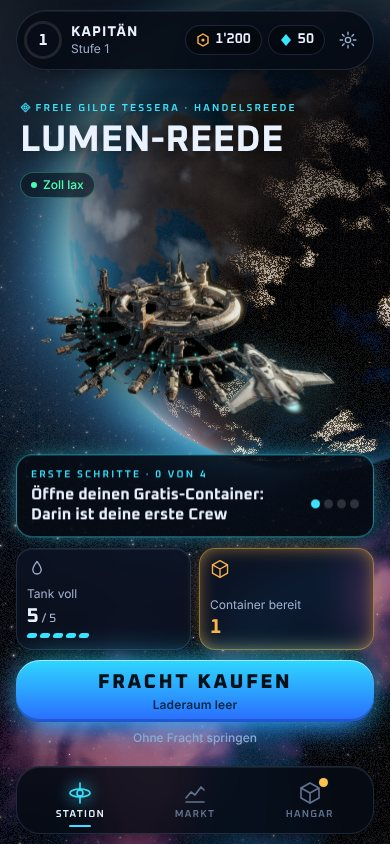
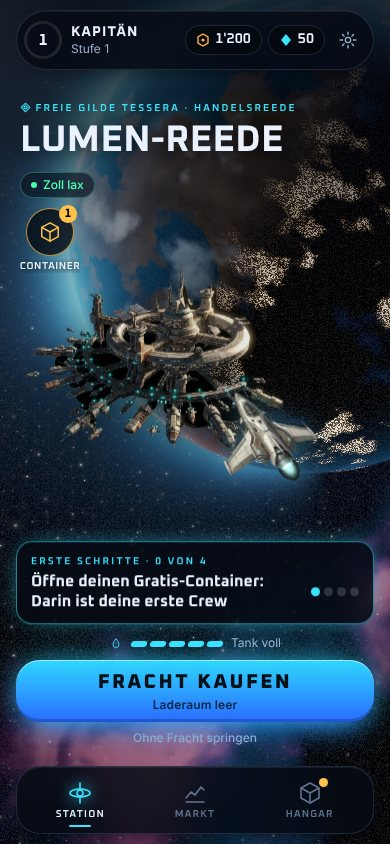
Home screen without tiles, daily goals as three symbols
Station: container bay and trading posts are symbols on the left edge, the
tank is one line above the main button. The middle belongs to the station
and the ship.

Daily goals: streak, wheel and calendar are three symbols at the top. A tap
on the calendar collects today's reward, streak and calendar fold out their
details. The daily bonus sits with its progress above the missions.

Claude-Session: https://claude.ai/code/session_01LRkk68pyJcCphAoNdXRYk3

Changed region(s): [[0.0, 0.1232, 1.0, 0.8009], [0.9538, 0.3389, 1.0, 0.4005], [0.9846, 0.2464, 1.0, 0.2773]]

diff --git a/packages/client/src/ui/Daily.tsx b/packages/client/src/ui/Daily.tsx
@@ -4,10 +4,14 @@ import { useFresh, useSeenNow, useUnlocks } from './unlocks.ts';
 import { useApp } from '../store.ts';
 import { countdown, missionText, num, rewardText } from './format.ts';
 import { useServerNow } from './hooks.ts';
-import { IconFlame, Quanta } from './icons.tsx';
+import { IconDaily, IconFlame, Quanta } from './icons.tsx';
 import { League } from './League.tsx';
 import { Season, WeekendCard } from './Season.tsx';
 import { SpendButton } from './Spend.tsx';
+
+/** A calendar reward in two words, for the symbol. */
+const rewardShort = (r: { credits?: number; shards?: number; quanta?: number; freeze?: number; crate?: unknown }): string =>
+  r.credits ? `${num(r.credits)} Credits` : r.shards ? `${r.shards} Splitter` : r.quanta ? `${r.quanta} Quanten` : r.freeze ? 'Urlaubsschein' : 'Container';
 
 const STREAK_TEXT = {
   none: 'Spring heute einmal, um eine Serie zu starten.',
@@ -29,6 +33,10 @@ function Today() {
   // Steps already collected in the current seven-day round.
   const doneCount = calendar.claimable ? calendar.step % calendar.rewards.length : ((calendar.step - 1) % calendar.rewards.length) + 1;
   const tap = (fn: () => void) => (): void => { audio.tap(); fn(); };
+  const [detail, setDetail] = useState<'streak' | 'calendar' | null>(null);
+  const today = calendar.rewards[doneCount % calendar.rewards.length];
+  const urgent = streak.status === 'atRisk' && streak.endsAt - now < 3 * 3_600_000;
+  const streakTone = urgent ? 'urgent' : streak.status;
 
   return (
     <>
@@ -41,42 +49,58 @@ function Today() {
         </button>
       )}
 
-      <div className={`streak streak--${streak.status}${streak.status === 'atRisk' && streak.endsAt - now < 3 * 3_600_000 ? ' is-urgent' : ''}`}>
-        <div className="streak__flame"><IconFlame /><b>{streak.count}</b></div>
-        <div className="streak__main">
-          <b>Handelsserie{streak.count > 0 ? ` · +${Math.round(streak.bonus * 100)} % Verkaufspreis` : ''}</b>
-          <span>{STREAK_TEXT[streak.status]}</span>
-          {streak.status === 'atRisk' && <span className="streak__clock">Noch {countdown(streak.endsAt - now)}</span>}
-        </div>
-        <SpendButton className="streak__freeze" disabled={busy || streak.freezes >= streak.maxFreezes || view.wallet.quanta < streak.freezePrice} onSpend={() => void send({ type: 'BuyFreeze' })} confirm={<><span>Kaufen?</span><small><Quanta />{streak.freezePrice}</small></>}>
-          <b>{streak.freezes}<small> / {streak.maxFreezes}</small></b>
-          <span>Urlaubsschein</span>
-          <small><Quanta />{streak.freezePrice}</small>
-        </SpendButton>
-      </div>
-
-      <button className={`wheelcard${daily.wheel.available ? ' wheelcard--ready' : ''}`} onClick={tap(() => setSheet('wheel'))}>
-        <span className="wheelcard__icon" />
-        <span className="wheelcard__main">
+      {/* Three things that come back every day, as symbols. Details open on a tap. */}
+      <div className="trio">
+        <button className={`trio__btn trio__btn--streak trio__btn--${streakTone}${detail === 'streak' ? ' is-open' : ''}`} onClick={tap(() => setDetail(detail === 'streak' ? null : 'streak'))}>
+          <span className="trio__icon"><IconFlame /><b>{streak.count}</b></span>
+          <b>Serie</b>
+          <small>{streak.status === 'atRisk' ? countdown(streak.endsAt - now) : streak.status === 'safe' ? `+${Math.round(streak.bonus * 100)} %` : streak.status === 'frozen' ? 'Schein hält' : streak.status === 'broken' ? 'gerissen' : 'starten'}</small>
+        </button>
+        <button className={`trio__btn trio__btn--wheel${daily.wheel.available ? ' trio__btn--ready' : ''}`} onClick={tap(() => setSheet('wheel'))}>
+          <span className="trio__icon"><i className="wheelcard__icon" /></span>
           <b>Glücksrad</b>
-          <small>{daily.wheel.available ? 'Dein Gratis-Dreh für heute wartet' : 'Heute gedreht. Morgen gibt es den nächsten'}</small>
-        </span>
-        <span className="mission__btn" aria-hidden="true">{daily.wheel.available ? 'Drehen' : 'Quoten'}</span>
-      </button>
-
-      <h4 className="market__section">Login-Kalender<span>{calendar.claimable ? 'Heute abholbar' : 'Morgen wieder'}</span></h4>
-      <div className="calendar" ref={(el) => { el?.querySelector('.cal--today, .cal--next')?.scrollIntoView({ inline: 'center', block: 'nearest' }); }}>
-        {calendar.rewards.map((r, i) => {
-          const state = i < doneCount ? 'done' : i === doneCount ? (calendar.claimable ? 'today' : 'next') : 'future';
-          return (
-            <button key={i} className={`cal cal--${state}${r.crate ? ' cal--big' : ''}`} disabled={busy || state !== 'today'} onClick={tap(() => void send({ type: 'ClaimCalendar' }))}>
-              <small>Tag {i + 1}</small>
-              <b>{r.credits ? num(r.credits) : r.shards ?? r.quanta ?? (r.freeze ? '1' : '★')}</b>
-              <span>{r.credits ? 'Credits' : r.shards ? 'Splitter' : r.quanta ? 'Quanten' : r.freeze ? 'Schein' : 'Premium'}</span>
-            </button>
-          );
-        })}
+          <small>{daily.wheel.available ? 'Gratis-Dreh' : 'morgen'}</small>
+        </button>
+        <button
+          className={`trio__btn trio__btn--calendar${calendar.claimable ? ' trio__btn--ready' : ''}${detail === 'calendar' ? ' is-open' : ''}`}
+          disabled={busy}
+          onClick={tap(() => { if (calendar.claimable) void send({ type: 'ClaimCalendar' }); else setDetail(detail === 'calendar' ? null : 'calendar'); })}
+        >
+          <span className="trio__icon"><IconDaily /></span>
+          <b>Tag {(doneCount % calendar.rewards.length) + 1}</b>
+          <small>{calendar.claimable && today ? rewardShort(today) : 'morgen'}</small>
+        </button>
       </div>
+
+      {detail === 'streak' && (
+        <div className={`streak streak--${streak.status}${streak.status === 'atRisk' && streak.endsAt - now < 3 * 3_600_000 ? ' is-urgent' : ''}`}>
+          <div className="streak__flame"><IconFlame /><b>{streak.count}</b></div>
+          <div className="streak__main">
+            <b>Handelsserie{streak.count > 0 ? ` · +${Math.round(streak.bonus * 100)} % Verkaufspreis` : ''}</b>
+            <span>{STREAK_TEXT[streak.status]}</span>
+            {streak.status === 'atRisk' && <span className="streak__clock">Noch {countdown(streak.endsAt - now)}</span>}
+          </div>
+          <SpendButton className="streak__freeze" disabled={busy || streak.freezes >= streak.maxFreezes || view.wallet.quanta < streak.freezePrice} onSpend={() => void send({ type: 'BuyFreeze' })} confirm={<><span>Kaufen?</span><small><Quanta />{streak.freezePrice}</small></>}>
+            <b>{streak.freezes}<small> / {streak.maxFreezes}</small></b>
+            <span>Urlaubsschein</span>
+            <small><Quanta />{streak.freezePrice}</small>
+          </SpendButton>
+        </div>
+      )}
+      {detail === 'calendar' && (
+        <div className="calendar" ref={(el) => { el?.querySelector('.cal--today, .cal--next')?.scrollIntoView({ inline: 'center', block: 'nearest' }); }}>
+          {calendar.rewards.map((r, i) => {
+            const state = i < doneCount ? 'done' : i === doneCount ? (calendar.claimable ? 'today' : 'next') : 'future';
+            return (
+              <button key={i} className={`cal cal--${state}${r.crate ? ' cal--big' : ''}`} disabled={busy || state !== 'today'} onClick={tap(() => void send({ type: 'ClaimCalendar' }))}>
+                <small>Tag {i + 1}</small>
+                <b>{r.credits ? num(r.credits) : r.shards ?? r.quanta ?? (r.freeze ? '1' : '★')}</b>
+                <span>{r.credits ? 'Credits' : r.shards ? 'Splitter' : r.quanta ? 'Quanten' : r.freeze ? 'Schein' : 'Premium'}</span>
+              </button>
+            );
+          })}
+        </div>
+      )}
 
       <h4 className="market__section">
         Tagesaufträge
@@ -84,6 +108,17 @@ function Today() {
           ? <button className="link link--gold" disabled={busy} onClick={tap(() => { void (async () => { for (const index of claimable) await send({ type: 'ClaimMission', index }); })(); })}>Alle {claimable.length} abholen</button>
           : <span>{daily.chest.done} von {daily.chest.total} erledigt</span>}
       </h4>
+      <button
+        className={`chest${daily.chest.done === daily.chest.total && !daily.chest.claimed ? ' chest--ready' : ''}${daily.chest.claimed ? ' is-claimed' : ''}`}
+        disabled={busy || daily.chest.claimed || daily.chest.done < daily.chest.total}
+        onClick={tap(() => void send({ type: 'ClaimChest' }))}
+      >
+        <span className="chest__pips">{Array.from({ length: daily.chest.total }, (_, i) => <i key={i} className={i < daily.chest.done ? 'on' : ''} />)}</span>
+        <span className="chest__text">
+          <b>{daily.chest.claimed ? 'Tagesbonus erhalten' : daily.chest.done === daily.chest.total ? 'Tagesbonus abholen' : 'Tagesbonus für alle drei'}</b>
+          <small>{rewardText(daily.chest.reward)}</small>
+        </span>
+      </button>
       <div className="missions">
         {daily.missions.map((m, i) => {
           const done = m.progress >= m.target;
@@ -100,15 +135,6 @@ function Today() {
             </div>
           );
         })}
-        <button
-          className={`chest${daily.chest.done === daily.chest.total && !daily.chest.claimed ? ' chest--ready' : ''}`}
-          disabled={busy || daily.chest.claimed || daily.chest.done < daily.chest.total}
-          onClick={tap(() => void send({ type: 'ClaimChest' }))}
-        >
-          <span className="chest__pips">{Array.from({ length: daily.chest.total }, (_, i) => <i key={i} className={i < daily.chest.done ? 'on' : ''} />)}</span>
-          <b>{daily.chest.claimed ? 'Tagesbonus erhalten' : 'Tagesbonus für alle drei'}</b>
-          <small>{rewardText(daily.chest.reward)}</small>
-        </button>
       </div>
     </>
   );

diff --git a/packages/client/src/ui/Hub.tsx b/packages/client/src/ui/Hub.tsx
@@ -30,7 +30,6 @@ export function Hub() {
   const way = course && course !== view.location ? courseTo(view.location, course) : [];
   const now = useServerNow();
   const station = STATION_BY_ID.get(view.location)!;
-  const go = (tab: 'hangar') => (): void => { audio.tap(); setTab(tab); };
 
   // What needs attention sits at the edge as a symbol with a mark. The details come after a tap.
   const { orders } = view;
@@ -63,6 +62,27 @@ export function Hub() {
     });
   }
   if (view.salvage && unlocks.salvage) rail.push({ key: 'salvage', tone: 'salvage', icon: <IconHangar />, label: 'Bergung', mark: '', say: `Bergungs-Auktion am Dock für ${num(view.salvage.price)} Credits`, go: () => setSheet('salvage') });
+  const own: typeof rail = [{
+    key: 'crates',
+    tone: view.badges.hangar > 0 ? 'ready' : 'idle',
+    icon: <IconHangar />,
+    label: view.badges.hangar > 0 ? 'Container' : view.crates.free.nextAt ? countdown(view.crates.free.nextAt - now) : 'Container',
+    mark: view.badges.hangar > 0 ? String(view.badges.hangar) : '',
+    say: view.badges.hangar > 0 ? `${view.badges.hangar} Container bereit` : 'Zum Hangar',
+    go: () => { setHangarMode('crates'); setTab('hangar'); },
+  }];
+  if (unlocks.posts) {
+    const full = view.badges.station > 0;
+    own.push({
+      key: 'posts',
+      tone: full ? 'ready' : fresh('posts') ? 'new' : 'idle',
+      icon: <IconMarket />,
+      label: view.posts.list.length > 0 ? num(view.posts.stored) : fresh('posts') ? 'Neu' : 'Posten',
+      mark: full ? '!' : '',
+      say: view.posts.list.length > 0 ? `Handelsposten: ${num(view.posts.stored)} Credits im Lager${full ? ', Lager voll' : ''}` : 'Handelsposten bauen',
+      go: () => setSheet('posts'),
+    });
+  }
   // One status at a time next to the customs level: the most pressing wins.
   const streakAtRisk = view.streak.count > 0 && view.streak.status === 'atRisk';
 
@@ -111,6 +131,15 @@ export function Hub() {
         <button className="hub__dock" aria-label={unlocks.yard ? 'Zur Werft' : 'Dein Schiff'} onClick={() => { if (!unlocks.yard) return; audio.tap(); setHangarMode('yard'); setTab('hangar'); }}>
           <ShipArt id={view.fleet.active} paint={paint} view={stationArt ? 'rear' : 'top'} />
         </button>
+        {/* Left: what you own and collect. Right: what the sector asks of you. */}
+        <div className="rail rail--left">
+          {own.map((r) => (
+            <button key={r.key} className={`rail__btn rail__btn--${r.key} rail__btn--${r.tone}`} aria-label={r.say} onClick={() => { audio.tap(); r.go(); }}>
+              <span className="rail__icon">{r.icon}{r.mark && <i>{r.mark}</i>}</span>
+              <small>{r.label}</small>
+            </button>
+          ))}
+        </div>
         {rail.length > 0 && (
           <div className="rail">
             {rail.map((r) => (
@@ -131,27 +160,11 @@ export function Hub() {
         </button>
       )}
 
-      <div className={`tiles${unlocks.posts ? '' : ' tiles--2'}`}>
-        {unlocks.posts && (
-          <button className={`tile${view.badges.station > 0 ? ' tile--ready' : fresh('posts') ? ' tile--new' : ''}`} onClick={() => { audio.tap(); setSheet('posts'); }}>
-            <span className="tile__icon"><IconMarket /></span>
-            <span className="tile__label">{view.posts.list.length > 0 ? (view.badges.station > 0 ? 'Posten voll' : 'Handelsposten') : fresh('posts') ? 'Neu: Posten' : 'Posten bauen'}</span>
-            <span className="tile__value">{view.posts.list.length > 0 ? num(view.posts.stored) : 'Bauen'}</span>
-          </button>
-        )}
-        <div className="tile">
-          <span className="tile__icon"><IconFuel /></span>
-          <span className="tile__label">{view.fuel.nextAt ? `+1 in ${countdown(view.fuel.nextAt - now)}` : 'Tank voll'}</span>
-          <span className="tile__value">{view.fuel.amount}<small> / {view.fuel.max}</small></span>
-          <span className="pips">
-            {Array.from({ length: view.fuel.max }, (_, i) => <i key={i} className={i < view.fuel.amount ? 'on' : ''} />)}
-          </span>
-        </div>
-        <button className={`tile${view.badges.hangar > 0 ? ' tile--ready' : ''}`} onClick={go('hangar')}>
-          <span className="tile__icon"><IconHangar /></span>
-          <span className="tile__label">{view.badges.hangar > 0 ? 'Container bereit' : 'Gratis-Container'}</span>
-          <span className="tile__value">{view.badges.hangar > 0 ? view.badges.hangar : view.crates.free.nextAt ? countdown(view.crates.free.nextAt - now) : '0'}</span>
-        </button>
+      {/* The tank in one line: how far you can go, and when the next unit comes. */}
+      <div className="fuelline" aria-label={`Tank ${view.fuel.amount} von ${view.fuel.max}`}>
+        <IconFuel />
+        <span className="pips">{Array.from({ length: view.fuel.max }, (_, i) => <i key={i} className={i < view.fuel.amount ? 'on' : ''} />)}</span>
+        <small>{view.fuel.nextAt ? `+1 in ${countdown(view.fuel.nextAt - now)}` : 'Tank voll'}</small>
       </div>
 
       {ready ? (

diff --git a/packages/client/src/ui/styles.css b/packages/client/src/ui/styles.css
@@ -2151,3 +2151,41 @@ i.flyglyph { width: 12px; height: 12px; left: -6px; top: -6px; background: var(-
 .trade__lvl { font-family: var(--font-display); font-size: var(--fs-body); font-weight: 700; }
 .trade__lvl.is-cheap { color: var(--ok); }
 .trade__lvl.is-dear { color: var(--amber); }
+
+/* The home screen without tiles: what you own sits on the left edge, the tank is one line above the main button. */
+.rail--left { right: auto; left: 0; }
+.rail__btn--idle { --tone: var(--ink-dim); }
+.rail__btn--idle small { color: var(--ink-dim); }
+.rail__btn--new { --tone: var(--cyan); }
+.fuelline { display: flex; align-items: center; justify-content: center; gap: 8px; margin-bottom: 8px; color: var(--ink-dim); }
+.fuelline svg { width: 14px; height: 14px; color: var(--cyan); }
+.fuelline .pips { margin-top: 0; }
+.fuelline .pips i { width: 16px; height: 6px; }
+.fuelline small { font-size: var(--fs-small); font-variant-numeric: tabular-nums; }
+
+/* Daily goals: streak, wheel and calendar as three symbols. The missions are the list. */
+.trio { flex: none; display: grid; grid-template-columns: repeat(3, 1fr); gap: 8px; margin: 4px 0 2px; }
+.trio__btn { --tone: var(--ink-dim); display: flex; flex-direction: column; align-items: center; gap: 2px; padding: 10px 4px 9px; border-radius: var(--radius-m); background: var(--glass-strong); border: 1px solid var(--stroke); }
+.trio__btn:active { transform: scale(0.96); }
+.trio__btn.is-open { border-color: var(--stroke-strong); }
+.trio__icon { position: relative; display: grid; place-items: center; width: 46px; height: 46px; margin-bottom: 2px; color: var(--tone); }
+.trio__icon svg { position: absolute; width: 44px; height: 44px; opacity: 0.6; }
+.trio__icon b { position: relative; top: 5px; font-family: var(--font-display); font-size: var(--fs-title); font-weight: 800; color: var(--ink); }
+.trio__btn--calendar .trio__icon b { top: 6px; font-size: var(--fs-body); }
+.trio__icon .wheelcard__icon { width: 40px; height: 40px; }
+.trio__btn > b { font-family: var(--font-display); font-size: var(--fs-body); font-weight: 700; }
+.trio__btn > small { font-size: var(--fs-small); color: var(--tone); font-variant-numeric: tabular-nums; }
+.trio__btn--safe { --tone: var(--ok); }
+.trio__btn--atRisk { --tone: var(--amber); }
+.trio__btn--urgent { --tone: var(--danger); border-color: rgba(255, 84, 104, 0.6); }
+.trio__btn--frozen { --tone: var(--cyan); }
+.trio__btn--ready { --tone: var(--r-legend); border-color: var(--r-legend); box-shadow: 0 0 20px -10px var(--r-legend); }
+.trio__btn--ready .wheelcard__icon { animation: rays 6s linear infinite; }
+.chest { flex-direction: row; align-items: center; gap: 12px; text-align: left; padding: 10px 12px; }
+.chest .chest__pips { flex: none; margin: 0; }
+.chest__text { min-width: 0; }
+.chest__text b, .chest__text small { display: block; }
+.chest.is-claimed { opacity: 0.5 !important; }
+.trio__icon b { font-size: var(--fs-head); text-shadow: 0 0 2px #000, 0 0 8px #000; }
+.trio__btn--streak .trio__icon svg { opacity: 0.45; }
+.trio__btn--calendar .trio__icon svg { width: 34px; height: 34px; opacity: 0.9; }

diff --git a/docs/redesign/07-design-pruefung.md b/docs/redesign/07-design-pruefung.md
@@ -105,8 +105,8 @@ Nichts davon nimmt eine Mechanik weg. Es ändert nur, wann und wie viel man davo
 | 1 | Schrittweise Freischaltung | Erledigt. Ein neuer Kapitän sieht Station, Markt und Hangar mit Containern. Das Deck kommt mit der ersten Crew, Aufträge ab Stufe 2, Handelsposten, Shop und Frachtbörse ab 3, Werft, Saison-Charter und Bergung ab 4, Auktionshaus und Liga ab 5, Konvois ab 6. Der Stufenaufstieg nennt, was neu ist. Neues trägt eine türkise Marke, bis man es einmal geöffnet hat. Wer schon spielt, bekommt keine Marken. Nach einem Prestige bleibt alles offen |
 | 2 | Sprung direkt auf der Sternkarte | Erledigt. Statt einer Liste von Sprungzielen gibt es eine einzige Zielkarte: Station antippen, die Karte zeigt Weg, Risiko des nächsten Sprungs, die zwei besten Waren und den Sprung-Knopf. Ohne Kurs schlägt die Karte das Ziel vor, das am besten verkauft. Das ganze Fenster passt ohne Scrollen auf einen Bildschirm |
 | 3 | Schrift, Ecken und Leuchten vereinheitlichen | Erledigt. Sechs Textgrössen statt 20 (10, 12, 14, 16, 20, 26 Pixel), vier Eckenradien statt 16. Leuchten gibt es nur noch für drei Dinge: den Hauptknopf, Abholbares und Seltenheit. 33 Leuchteffekte an Balken, Punkten und Chips sind weg. Punkte pulsieren nicht mehr. 67 Regeln für entfernte Elemente sind gelöscht |
-| 4 | Tab "Aufträge": Serie, Glücksrad und Kalender als Symbolreihe | Offen |
-| 5 | Kacheln der Station in die Symbolleiste | Offen |
+| 4 | Tab "Aufträge": Serie, Glücksrad und Kalender als Symbolreihe | Erledigt. Drei Symbole oben: Serie mit Tageszahl, Glücksrad, Kalender mit der Belohnung von heute. Ein Tipp auf den Kalender holt sie direkt ab, Serie und Kalender klappen ihre Details auf. Der Tagesbonus steht mit Fortschritt über den Tagesaufträgen |
+| 5 | Kacheln der Station in die Symbolleiste | Erledigt. Container und Handelsposten sind Symbole am linken Rand, der Tank ist eine Zeile über dem Hauptknopf. Die Mitte gehört der Station und dem Schiff |
 
 **Wichtig zur Freischaltung:** Sie ändert keine Regel. Jedes System läuft von der ersten Minute an, und was es einbringt, wartet. Gesperrt ist nur der Weg dorthin in der Oberfläche. Der Server prüft die Stufen nicht, mit Ausnahme der Frachtbörse, die schon vorher ab Stufe 3 galt.
 

diff --git a/README.md b/README.md
@@ -440,7 +440,7 @@ Hintergrund und Einordnung jeder Mechanik stehen im [Mechanik-Katalog](docs/rede
 
 **Zuletzt dazugekommen:** der Sektor mit Sternkarte, Sprungbahnen, Krisen und Lieferaufträgen, Design-Runde 2, eine Entschlackung der meistgenutzten Bildschirme, die schrittweise Freischaltung für neue Spieler, der Sprung direkt auf der Sternkarte, eine einheitliche Gestaltung mit sechs Textgrössen, alle Grafik-Pakete A bis K und der Kippeffekt auf allen Karten.
 
-**Als Nächstes:** Gerätetest auf Android und iOS, Rest der Design-Arbeit (Tab «Aufträge» aufräumen, Kartenrahmen nach Seltenheit), Sektor ausbauen (Aufträge für Schmuggelware, sichtbare Konkurrenten, Bots, die Aufträge und Krisen anfahren).
+**Als Nächstes:** Gerätetest auf Android und iOS, Rest der Design-Arbeit (Kartenrahmen nach Seltenheit, Konvoi-Rückkehr als Moment), Sektor ausbauen (Aufträge für Schmuggelware, sichtbare Konkurrenten, Bots, die Aufträge und Krisen anfahren).
 
 **Bekannte Grenzen:** Sektor und Lieferaufträge sind neu und kaum gespielt, ihre Balance ist nur teilweise von Bots gemessen. Der Spielstand liegt lokal auf dem Gerät, ein Konto mit Cloud-Speicher fehlt. Tages- und Wochengrenzen folgen mitteleuropäischer Winterzeit. Der Server hält Sitzungen nur im Arbeitsspeicher.
 

diff --git a/docs/redesign/03-roadmap.md b/docs/redesign/03-roadmap.md
@@ -289,6 +289,6 @@ Hier kommt der grösste Teil des Katalogs.
 
 1. **Grafiken, Rest** (deine Seite, Dokument 06): die vier neuen Stationen (Paket L) und die Ersatzkarte `g094`.
 2. **Gerätetest** (deine Seite): die Android-App installieren und spielen.
-3. **Design, Rest** (Dokument 07): Tab "Aufträge" aufräumen, Kacheln der Station in die Symbolleiste, Kartenrahmen nach Seltenheit, Konvoi-Rückkehr als Moment.
+3. **Design, Rest** (Dokument 07): Kartenrahmen nach Seltenheit, Konvoi-Rückkehr als Moment.
 4. **Sektor weiter ausbauen:** Bots, die Aufträge und ferne Krisen anfahren, damit die Balance sie mitmisst. Aufträge für Schmuggelware. Sichtbare Konkurrenten auf der Karte.
 5. Danach zur Wahl: Backend für echte Mitspieler mit Konten und Cloud-Speicher, oder der Rest aus Phase 2.
